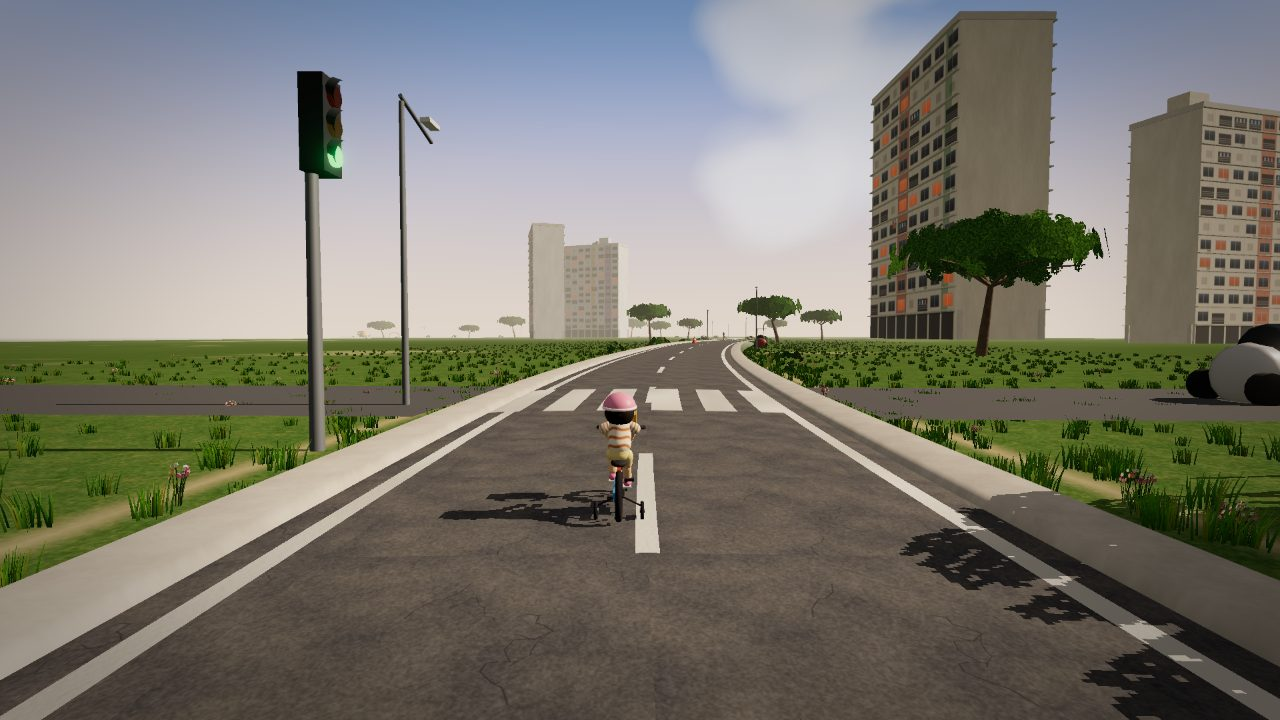
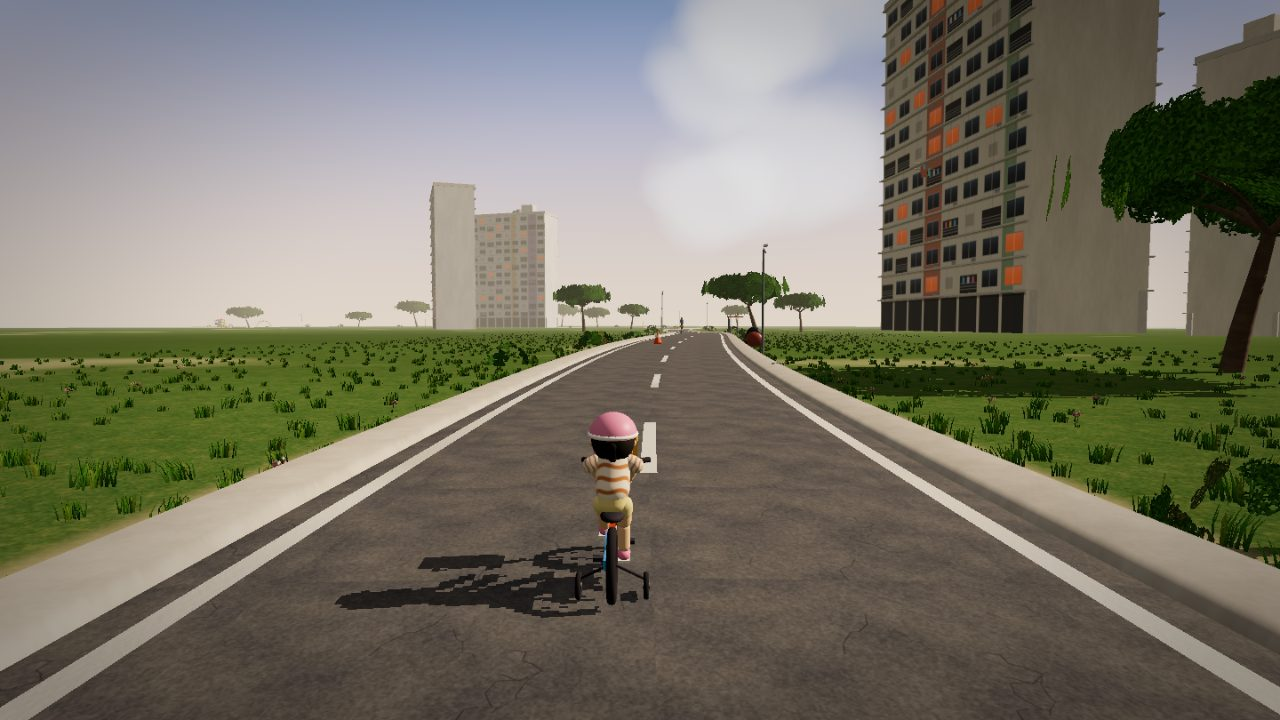
Rewrite README as a showcase; set play link to Vercel
Rich landing page: hero shot with voice cards, a real-time motion GIF, a
six-chapter gallery, the child-development rationale, how-to-play, tech, and
lessons learned. All images are captured from the actual engine. Play link
points to https://raes-big-ride.vercel.app/.

diff --git a/README.md b/README.md
@@ -1,81 +1,117 @@
-# Rae's Big Ride 🚲🛴
+<div align="center">
 
-A voice-controlled 3D riding adventure through Singapore, built for Rae (4).
-She rides her real bicycle (white B'Twin with the yellow basket and training
-wheels) or her real scooter (the green-deck KUB) from the HDB heartland,
-along a park connector, past the sea at East Coast, through the city, and
-arrives at a playground — steering the whole way **by reading clue words out
-loud**.
+# 🚲 Rae's Big Ride
 
-## How to play (parents)
+### A voice-controlled 3D adventure that teaches little ones to *look, name, and speak* — by riding through Singapore.
 
-1. `npm install` once, then `npm run dev` in this folder.
-2. Open this **exact link in Google Chrome** — nothing after the port:
+**No buttons. No screens to poke. She talks, and the world moves.**
 
-   ### 👉 http://localhost:5178
+### ▶ **[Play it here → raes-big-ride.vercel.app](https://raes-big-ride.vercel.app/)**
+*(best in Google Chrome, with the microphone allowed)*
 
-   (Voice recognition needs Chrome, and internet must be on while playing.)
-   **Do not add `?sim=` or `?interval=` to the address** — those are testing
-   switches: `sim` feeds the game a fake voice and `interval` drives drawing
-   off the display clock. The plain link above is always the one to use.
-3. When asked, **allow the microphone**.
-4. Tap *Let's play* — Rae picks her ride, her colour, and her pace
-   (🐢 gentle · 🐇 quick · 🚀 super zoomy), does a quick "Say GO!" voice
-   check, and the journey begins.
+![Rae and her cousin Zoe riding, reading the words APPLE and DUCK aloud to choose their path](docs/img/hero_voice.jpg)
 
-The ride takes roughly 4–7 minutes depending on pace. The day moves from
-morning to a warm late afternoon as she gets closer to the playground.
+</div>
 
-### What she'll be asked to do
+---
 
-- **Two cards, two ways** — say the word on the card to choose a path
-  (things & animals first, then letters, then numbers — one type per
-  chapter, never mixed in the same moment).
-- **Somebody's napping on the path!** — say the word on the card to steer
-  around cats, puddles, beach balls, and aunties with trolleys.
-- **Traffic lights** — red means *"say STOP"*, green means *"say GO"*.
-  (She is never allowed to run the red light, even in silence.)
-- **The big downhill** — say *WHEEE!* (any happy shout counts).
-- If she says nothing, she just slows down gently and the narrator offers
-  the word. After three tries the game says it for her and rolls on —
-  **the ride can never be failed and never gets stuck.**
-- Anytime: saying **"ring ring"** rings the bell (and startles pigeons).
+## 🎙 The idea: her voice is the controller
 
-### Helper controls (for grown-ups)
+Most toddler "games" are a finger mashing a tablet. This one is the opposite. A child rides a bicycle or scooter down a gentle, endless road, and to steer, avoid a sleeping cat, stop at a red light, or pick which way to go — **she reads the word on screen out loud.**
 
-| Key | What it does |
+> She sees a card that says **`CAT`** with a picture of a cat. She says *"cat!"* — and her little rider swerves around it. That's the whole game. Say the word, the world responds.
+
+It listens through the microphone (Chrome's Singapore-English speech engine), and it is **relentlessly gentle**: if she stays quiet, the bike just slows and waits, a friendly voice offers the word, and after a few tries it says it *for* her and rolls on. **There is no way to fail, and it never gets stuck.**
+
+<div align="center">
+
+![A short clip riding down the park-connector path](docs/img/ride.gif)
+
+*Real-time, rendered in the browser — no video, no pre-baked cutscene.*
+
+</div>
+
+---
+
+## 🧠 Why it's genuinely good for a child
+
+This isn't screen-time to keep a child quiet — it's **spoken-language practice disguised as a bike ride.** Every interaction is a tiny, low-pressure invitation to *notice something and say its name* — which is exactly how early vocabulary and confident speech are built.
+
+| What she practises | How the game does it |
 | --- | --- |
-| **Esc** | **pause / resume the ride** |
-| ⬅ ➡ | steer her by hand |
-| Enter | answers the current card for her |
-| P | parent corner: music volume, mic boost, narrator on/off |
+| 🗣 **Talking out loud & articulation** | The entire game is powered by her voice. Shy kids warm up because there's no audience — just a bike that likes when she speaks. |
+| 👀 **Recognising the world** | Cards are everyday things a 3–4-year-old knows: animals, fruit, vegetables, shapes, numbers, letters — each paired with a clear picture. |
+| 🔤 **Early phonics & letters** | `B` shows a 🦋 and asks for *"butterfly"* — linking letter, sound, and object. |
+| 🔢 **Counting & numbers** | *"three shells"* 🐚🐚🐚 — numbers taught as real quantities, not abstract digits. |
+| 🚦 **Road sense & safety** | She learns to **stop at red, go on green**, and wait for cars to pass — rehearsing real kerbside habits. |
+| 🤝 **Turn-taking & togetherness** | She can ride with her cousin **Zoe** alongside — sharing the adventure, not competing. |
+| 💪 **Confidence & agency** | Her words visibly change the world. Cause and effect, spoken by her, every few seconds. |
 
-### Talking to the game
+Vocabulary is dealt from a **shuffled 80-word deck that never repeats a word until the deck runs dry**, and reshuffles every ride — so it stays fresh instead of drilling the same handful of words.
 
-Rae can say **"left"** or **"right"** at *any* moment — including while a
-clue card is on screen — and she'll swerve that way immediately. Saying
-**"ring ring"** rings her bell anywhere. Clue cards add their own words on
-top of these.
+---
 
-### Tips for a good session
+## 🇸🇬 A journey through six recognisable places
 
-- Speakers **low** (the music auto-ducks when the game is listening, but
-  soft is better), external mic close to her if you have one.
-- Sit with her the first time — the fun is her narrating the world.
-- Everything runs locally. The only network use is Chrome's speech service
-  hearing single words.
+One continuous ~5–7 minute ride from her neighbourhood to the playground, with the light warming from morning to golden afternoon as she arrives.
 
-## Developer notes
+<table>
+  <tr>
+    <td width="50%"><img src="docs/img/ch1_heartland.jpg" alt="HDB heartland"><br><b>🏠 HDB heartland</b><br>Pastel blocks, void decks, a mama shop, laundry poles — home.</td>
+    <td width="50%"><img src="docs/img/ch2_connector.jpg" alt="Park connector"><br><b>🌳 Park connector</b><br>The red PCN path under rain trees, with cyclists and butterflies.</td>
+  </tr>
+  <tr>
+    <td><img src="docs/img/ch3_market.jpg" alt="Wet market and hawker centre"><br><b>🍎 Wet market & hawker centre</b><br>Striped awnings, heaped produce, crowds — where fruit &amp; veg words live.</td>
+    <td><img src="docs/img/ch4_coast.jpg" alt="East Coast"><br><b>🌊 East Coast</b><br>The sea, palms and sand, ships on the horizon, an otter family crossing.</td>
+  </tr>
+  <tr>
+    <td><img src="docs/img/ch5_city.jpg" alt="City"><br><b>🏙 City peek</b><br>The skyline in haze, an overhead bridge, traffic lights and crossing cars.</td>
+    <td><img src="docs/img/ch6_playground.jpg" alt="Playground finale"><br><b>🛝 Playground finale</b><br>A balloon arch, slides, and her plushies waiting to cheer her in.</td>
+  </tr>
+</table>
 
-- Stack: Vite + three.js, no other runtime deps. All textures, models,
-  music, and sound effects are generated procedurally in code.
-- Useful URLs:
-  - `?mode=frame&t=0..1` — lighting style frame (morning→noon→golden).
-  - `?mode=ride` — riding testbed, `?inspect=1` close-up camera.
-  - `?mode=world&jump=<m>` — teleport along the journey.
-  - `?sim=1` — fake child voice; `?auto=1&ts=6` — fast unattended QA run
-    that prints a `[QA] SUMMARY` line; add `?interval=1` in embedded
-    panes that throttle rAF.
-  - `?skipmenu=1&v=scooter&c=pink&pace=zoomy` — jump straight into a ride.
-- QA: every interaction logs a `[QA]` JSON line; the full-journey auto run
-  ends with outcomes for all ~16 events plus average fps.
+Every tree, building, character, texture, note of music, and sound effect is **generated in code** — there are no downloaded 3D models or images anywhere in this project.
+
+---
+
+## ▶ How to play
+
+1. Open **[raes-big-ride.vercel.app](https://raes-big-ride.vercel.app/)** in **Google Chrome** (voice needs Chrome; keep internet on).
+2. **Allow the microphone** when asked.
+3. Tap **Let's play** → pick a ride 🚲/🛴, a colour, a pace 🐢/🐇/🚀, and whether cousin **Zoe** comes along.
+4. A quick coached **how-to-play** shows first-timers the ropes, then — off she goes!
+
+She can say these **any time**, even mid-ride: **`left`** · **`right`** · **`faster`** · **`slower`** · **`ring ring`** (the bell). Clue cards add their own words on top.
+
+**Grown-up helpers** (in the ⏸ / `Esc` menu, or keys): `←` `→` steer · `Enter` answers a card · music, mic sensitivity, and helper-voice toggle · restart · replay the walkthrough. On a phone or tablet, **tap the left or right side of the screen to steer.**
+
+---
+
+## 🛠 Built with
+
+- **[three.js](https://threejs.org/)** — WebGL2, custom sky & water shaders, soft shadows, a bloom + colour-grade post pipeline
+- **Web Speech API** (`en-SG`) for recognition, **Web Speech Synthesis** for the friendly narrator
+- **Web Audio** — the soothing piano/pad score and every sound effect are synthesised live, and the music auto-ducks whenever the game is listening
+- **Vite** + vanilla ES modules · everything procedural · runs entirely in the browser (only single spoken words ever leave the device, to Chrome's speech service)
+
+```bash
+npm install
+npm run dev     # then open http://localhost:5178 in Chrome
+```
+
+---
+
+## 📓 Things we learned building it
+
+- **Voice is a wonderful controller for a pre-reader — if it's forgiving.** The magic only works because the game never punishes silence or a mumble: fuzzy word-matching, generous aliases, gentle slow-downs, and a "we'll say it together" fallback. A single frustrating dead-end would end the whole thing for a 4-year-old.
+- **Chase the flicker to its real cause, don't paper over it.** A stubborn screen-flicker survived three "fixes" aimed at the wrong thing. The culprit was finally measured, not guessed: the animated sea was a raw shader that rendered **black through the HDR post-processing pipeline**, intermittently, worsening over a session. Rebuilding it on the engine's standard material path — the same one the roads and trees use — ended it. *Measure per-frame, isolate the layer, then fix.*
+- **Keep debug switches out of players' hands.** An early "smooth vs. broken" mystery turned out to be a QA URL flag (`?sim=`, `?interval=`) that had leaked into the link being played. Test flags now can't affect a real session.
+- **Design for the actual player.** Reshuffled vocab (no drilling), one decision on screen at a time, picture-and-word always paired, a sibling to ride with, and touch fallbacks so it works on the family iPad — small choices that decide whether a small child stays delighted.
+
+---
+
+<div align="center">
+
+Made with love for **Rae** (and her cousin **Zoe**) 💗💛
+
+</div>
